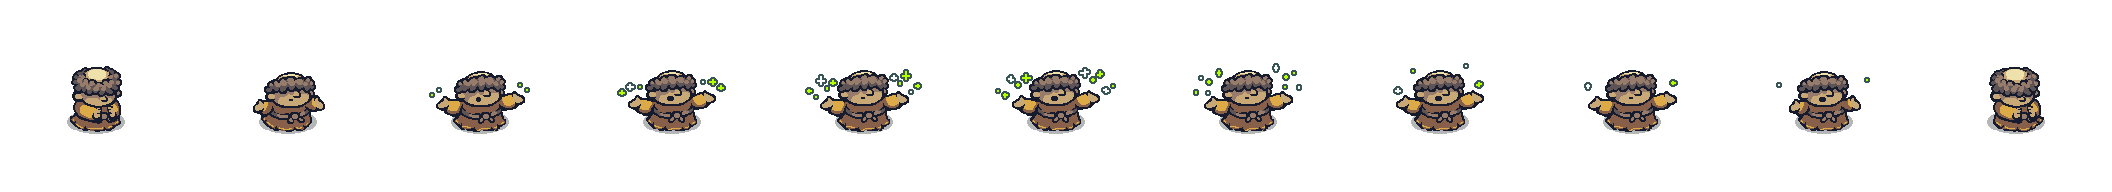
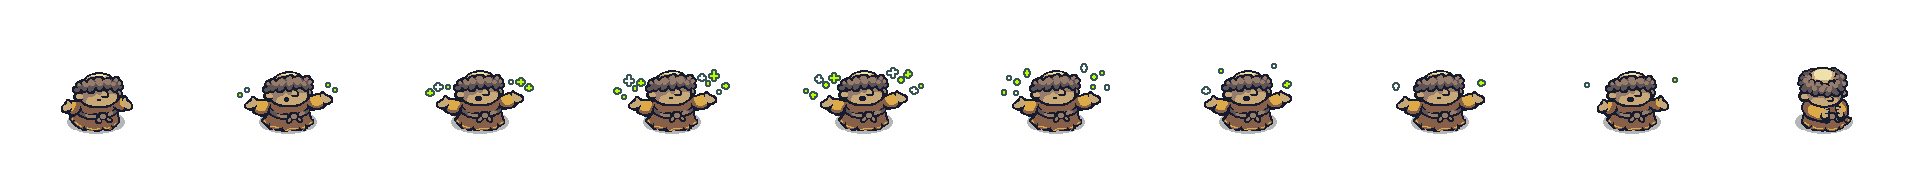
Animazione talking

Changed region(s): [[0.0312, 0.3438, 0.9062, 0.7188], [0.9375, 0.3438, 0.9688, 0.6875]]

diff --git a/src/view/renderer/object/MonkRenderer.java b/src/view/renderer/object/MonkRenderer.java
@@ -22,12 +22,12 @@ public class MonkRenderer extends ObjectRender<OBJ_Monk> {
 
         // Estrazione dei frame (Esempio: riga 0 Idle, riga 1 Talking/Action)
         BufferedImage[] idleFrames = SpriteLoader.getAnimationFrames(idleSheetImage, 0, 1, 6, PLAYER_SPRITE_WIDTH, PLAYER_SPRITE_HEIGHT);
-        BufferedImage[] talkingFrames = SpriteLoader.getAnimationFrames(talkSheetImage, 0, 1, 10, PLAYER_SPRITE_WIDTH, PLAYER_SPRITE_HEIGHT);
+        BufferedImage[] talkingFrames = SpriteLoader.getAnimationFrames(talkSheetImage, 0, 1, 9, PLAYER_SPRITE_WIDTH, PLAYER_SPRITE_HEIGHT);
         BufferedImage[] disappearFrames = SpriteLoader.getAnimationFrames(disappearSheetImage, 0, 1, 11, PLAYER_SPRITE_WIDTH, PLAYER_SPRITE_HEIGHT);
 
         animationManager = new AnimationManager();
         animationManager.addAnimation("monk_idle", new Animation(idleFrames, 200, true));
-        animationManager.addAnimation("monk_talking", new Animation(talkingFrames, 200, false));
+        animationManager.addAnimation("monk_talking", new Animation(talkingFrames, 200, true));
         animationManager.addAnimation("monk_disappear", new Animation(disappearFrames, 150, false));
     }
 

diff --git a/src/model/object/OBJ_Tree.java b/src/model/object/OBJ_Tree.java
@@ -15,7 +15,6 @@ public class OBJ_Tree extends GameObject {
     private boolean chopping = false; // Flag to indicate if the tree is currently being chopped (for animation purposes)
     private static final double CHOP_ANIMATION_DURATION = 500; // ms
     private double chopTimer = 0; // Timer to track chopping animation progress 
-    private boolean readyToDrop = false; // Flag to indicate if the tree is ready to drop the item after being chopped
     private int shakeOffsetX = 0;
     private int shakeOffsetY = 0;
     // COSTRUCTOR
@@ -72,7 +71,6 @@ public class OBJ_Tree extends GameObject {
             if(chopTimer <= 0) {
                 chopping = false;
                 chopped = true; // ora l'albero è effettivamente tagliato
-                readyToDrop = true;
                 shakeOffsetX = 0;
                 shakeOffsetY = 0;
                 solid = false;

diff --git a/src/view/UI.java b/src/view/UI.java
@@ -5,11 +5,8 @@ import view.renderer.entity.PlayerRender;
 import view.renderer.map.MapRender;
 
 import java.awt.*;
-import java.awt.image.BufferedImage;
 import java.io.IOException;
 import java.io.InputStream;
-import main.GameSetting.*;
-
 import static main.GameSetting.*;
 
 public class UI {

diff --git a/src/model/object/ObjectManager.java b/src/model/object/ObjectManager.java
@@ -12,8 +12,6 @@ import org.w3c.dom.Element;
 import org.w3c.dom.Node;
 import org.w3c.dom.NodeList;
 
-import static main.GameSetting.TILE_SIZE;
-
 public class ObjectManager {
 
     private final List<GameObject> objects = new ArrayList<>();

diff --git a/src/model/world/MapLayer.java b/src/model/world/MapLayer.java
@@ -2,11 +2,6 @@ package model.world;
 
 import org.w3c.dom.Element;
 
-import java.io.BufferedReader;
-import java.io.InputStream;
-import java.io.InputStreamReader;
-
-
 /**
  * GameMap Layer Class
  * single layer of the map
